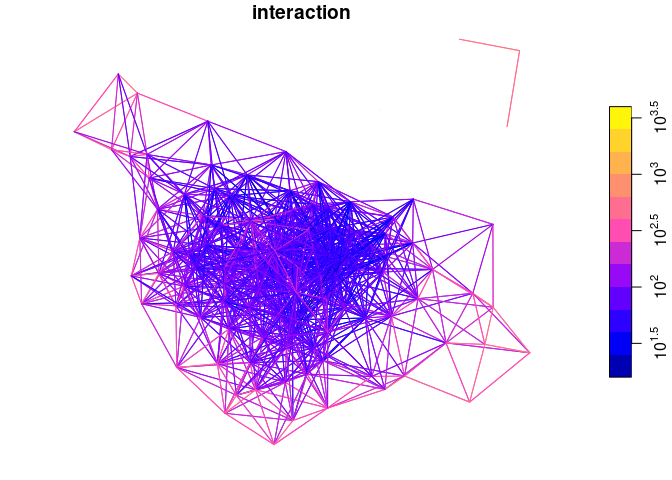
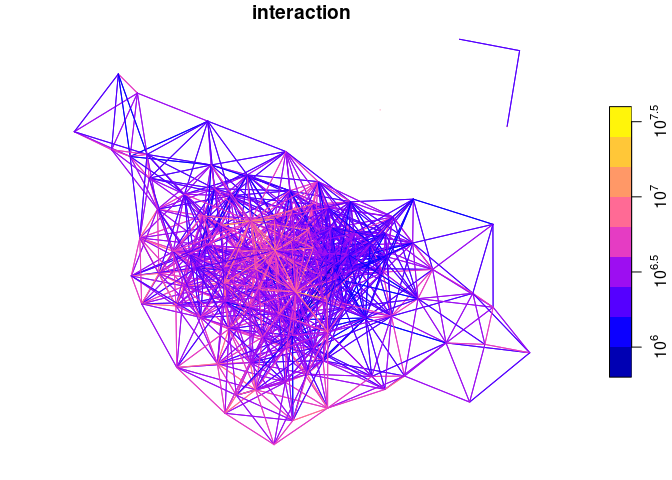
Update with tidyeval example

diff --git a/README.md b/README.md
@@ -27,6 +27,21 @@ Run a basic SIM as follows:
 
 ``` r
 library(si)
+library(dplyr)
+```
+
+
+    Attaching package: 'dplyr'
+
+    The following objects are masked from 'package:stats':
+
+        filter, lag
+
+    The following objects are masked from 'package:base':
+
+        intersect, setdiff, setequal, union
+
+``` r
 # prepare OD data
 od = si_to_od(
   origins = si_zones,        # origin locations
@@ -40,17 +55,41 @@ od = si_to_od(
 
 ``` r
 # specify a function
-gravity_model = function(od, beta) {
-  od[["origin_all"]] * od[["destination_all"]] *
-    exp(-beta * od[["distance_euclidean"]] / 1000)
+gravity_model = function(beta, d, m, n) {
+  m * n * exp(-beta * d / 1000)
 } 
 # perform SIM
-od_res = si_calculate(od, fun = gravity_model, beta = 0.3, constraint_p = origin_all)
+od_res = si_calculate(
+  od,
+  fun = gravity_model,
+  d = distance_euclidean,
+  m = origin_all,
+  n = destination_all,
+  constraint_p = origin_all,
+  beta = 0.3
+  )
 # visualize the results
 plot(od_res$distance_euclidean, od_res$interaction)
 ```
 
 ![](man/figures/README-distance-1.png)
+
+Note: this approach also allows you to use {si} functions in {dplyr}
+pipelines:
+
+``` r
+od_res = od %>% 
+  si_calculate(fun = gravity_model, 
+               m = origin_all,
+               n = destination_all,
+               d = distance_euclidean,
+               beta = 0.3)
+od_res %>% 
+  select(interaction) %>% 
+  plot()
+```
+
+![](man/figures/README-unnamed-chunk-2-1.png)
 
 What just happened? As the example above shows, the package
 allows/encourages you to define and use your own functions to estimate
